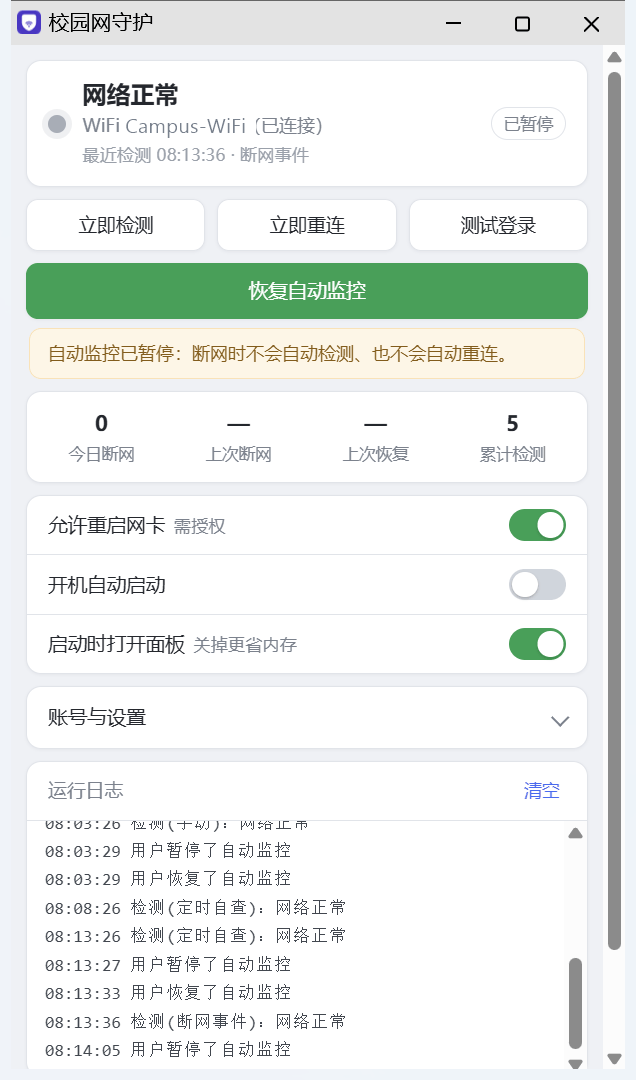
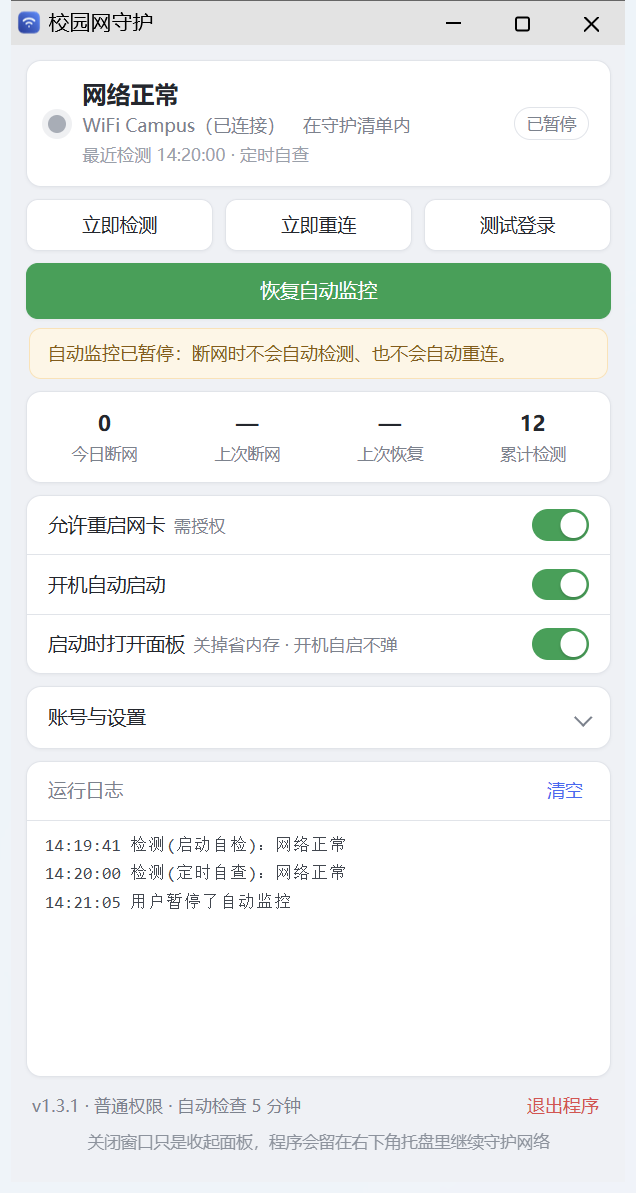
docs: 示例 SSID 改为通用占位，重拍 v1.3.1 界面预览图
README/UI 提示/测试里的真实校园 SSID 统一换成 Campus-WiFi、Campus-5G、Campus-* 等通用示例；ui-preview.png 与 ui-paused.png 用 v1.3.1 面板重拍（页脚版本、托盘提示、设置区说明齐全）。

diff --git a/ui.html b/ui.html
@@ -146,7 +146,7 @@
     <div class="fld"><label>密码</label><input id="fPass" type="password" placeholder="留空表示不修改" autocomplete="off"></div>
     <div class="fld"><label>守护的网络</label><div class="chips" id="ssidBox"></div></div>
     <div class="ssidrow">
-      <input id="fSsid" placeholder="如 QHNU-CMCC；也支持 QHNU-* 通配" autocomplete="off">
+      <input id="fSsid" placeholder="如 Campus-WiFi；也支持 Campus-* 通配" autocomplete="off">
       <button class="btn" id="bSsidAdd">添加</button>
     </div>
     <div class="ssidrow two">
@@ -266,7 +266,7 @@ function renderChips(){
       if (!v) return;
       if (v.length > 64) v = v.slice(0, 64);
       var k = ssidKey(v), star = v.indexOf("*");
-      if (star === 0){ toast("至少写几个字符，例如 QHNU-*"); return; }
+      if (star === 0){ toast("至少写几个字符，例如 Campus-*"); return; }
       if (star >= 0 && star !== v.length - 1){ toast("通配符只能写在末尾"); return; }
       for (var j = 0; j < ssidList.length; j++){
         if (j !== i && ssidKey(ssidList[j]) === k){ toast("「" + v + "」已经在清单里了"); return; }
@@ -290,8 +290,8 @@ function addSsid(name){
   if (!name) return;
   if (name.length > 64) name = name.slice(0, 64);
   var star = name.indexOf("*");
-  if (star === 0){ toast("至少写几个字符，例如 QHNU-*"); return; }
-  if (star >= 0 && star !== name.length - 1){ toast("通配符只能写在末尾，例如 QHNU-*"); return; }
+  if (star === 0){ toast("至少写几个字符，例如 Campus-*"); return; }
+  if (star >= 0 && star !== name.length - 1){ toast("通配符只能写在末尾，例如 Campus-*"); return; }
   var k = ssidKey(name);
   for (var i = 0; i < ssidList.length; i++){
     if (ssidKey(ssidList[i]) === k){ toast("「" + name + "」已经在清单里了"); return; }

diff --git a/tests/test_ssid_rules.py b/tests/test_ssid_rules.py
@@ -10,7 +10,7 @@ from ssid_rules import (MAX_SSID_ITEMS, is_wildcard, normalize_ssid_list,
 
 class SsidKeyTest(unittest.TestCase):
     def test_trims_and_casefolds(self):
-        self.assertEqual(ssid_key("  QHNU-CMCC "), "qhNu-cmcc".casefold())
+        self.assertEqual(ssid_key("  Campus-WiFi "), "caMpus-WiFi".casefold())
 
     def test_non_string_is_empty(self):
         self.assertEqual(ssid_key(None), "")
@@ -22,8 +22,8 @@ class NormalizeTest(unittest.TestCase):
         self.assertEqual(normalize_ssid_list("  A  "), ["A"])
 
     def test_dedup_casefold_keeps_order(self):
-        self.assertEqual(normalize_ssid_list(["QHNU-CMCC", " qhnu-cmcc ", "Campus-WiFi"]),
-                         ["QHNU-CMCC", "Campus-WiFi"])
+        self.assertEqual(normalize_ssid_list(["Campus-WiFi", " campus-wifi ", "Campus-5G"]),
+                         ["Campus-WiFi", "Campus-5G"])
 
     def test_drops_empty_and_non_strings(self):
         self.assertEqual(normalize_ssid_list(["", "  ", None, 3.5, [], "ok"]), ["3.5", "ok"])
@@ -40,21 +40,21 @@ class NormalizeTest(unittest.TestCase):
 
 class MatchTest(unittest.TestCase):
     def test_exact_case_insensitive(self):
-        self.assertTrue(ssid_matches("QHNU-CMCC", ["qhnu-cmcc"]))
-        self.assertFalse(ssid_matches("QHNU", ["QHNU-CMCC"]))
-        self.assertFalse(ssid_matches("QHNU-CMCC", ["QHNU"]))
-        self.assertFalse(ssid_matches("", ["QHNU-*"]))
-        self.assertFalse(ssid_matches("QHNU-CMCC", []))
+        self.assertTrue(ssid_matches("Campus-WiFi", ["campus-wifi"]))
+        self.assertFalse(ssid_matches("Campus", ["Campus-WiFi"]))
+        self.assertFalse(ssid_matches("Campus-WiFi", ["Campus"]))
+        self.assertFalse(ssid_matches("", ["Campus-*"]))
+        self.assertFalse(ssid_matches("Campus-WiFi", []))
 
     def test_prefix_wildcard(self):
-        self.assertTrue(ssid_matches("QHNU-CMCC", ["QHNU-*"]))
-        self.assertTrue(ssid_matches("QHNU-*", ["QHNU-*"]))
-        self.assertFalse(ssid_matches("CMCC-QHNU", ["QHNU-*"]))
+        self.assertTrue(ssid_matches("Campus-WiFi", ["Campus-*"]))
+        self.assertTrue(ssid_matches("Campus-*", ["Campus-*"]))
+        self.assertFalse(ssid_matches("WiFi-Campus", ["Campus-*"]))
 
     def test_fullwidth_star(self):
-        self.assertTrue(ssid_matches("QHNU-CMCC", ["QHNU-\uff0a"]))
-        self.assertTrue(is_wildcard("QHNU-\uff0a"))
-        self.assertFalse(is_wildcard("QHNU-CMCC"))
+        self.assertTrue(ssid_matches("Campus-WiFi", ["Campus-\uff0a"]))
+        self.assertTrue(is_wildcard("Campus-\uff0a"))
+        self.assertFalse(is_wildcard("Campus-WiFi"))
 
     def test_star_alone_matches_any_non_empty(self):
         self.assertTrue(ssid_matches("anything", ["*"]))
@@ -63,12 +63,12 @@ class MatchTest(unittest.TestCase):
 
 class LegacyTest(unittest.TestCase):
     def test_sync_picks_first_non_wildcard(self):
-        cfg = {"ssid_list": ["QHNU-*", "Campus-WiFi"], "ssid": ""}
+        cfg = {"ssid_list": ["Campus-*", "Campus-WiFi"], "ssid": ""}
         sync_legacy_ssid(cfg)
         self.assertEqual(cfg["ssid"], "Campus-WiFi")
 
     def test_sync_wildcard_only(self):
-        cfg = {"ssid_list": ["QHNU-*"], "ssid": "old"}
+        cfg = {"ssid_list": ["Campus-*"], "ssid": "old"}
         sync_legacy_ssid(cfg)
         self.assertEqual(cfg["ssid"], "")
 

diff --git a/tests/test_config.py b/tests/test_config.py
@@ -20,16 +20,16 @@ def fix(cfg):
 @unittest.skipIf(monitor is None, "monitor 依赖 Windows 才能导入")
 class FixConfigTest(unittest.TestCase):
     def test_legacy_ssid_migrates_only_when_list_empty(self):
-        fixed, notes = fix({"ssid": " QHNU-CMCC ", "ssid_list": []})
-        self.assertEqual(fixed["ssid_list"], ["QHNU-CMCC"])
+        fixed, notes = fix({"ssid": " Campus-WiFi ", "ssid_list": []})
+        self.assertEqual(fixed["ssid_list"], ["Campus-WiFi"])
         self.assertTrue(notes)
 
-        fixed, _ = fix({"ssid": "QHNU-CMCC", "ssid_list": ["Campus-WiFi"]})
+        fixed, _ = fix({"ssid": "Campus-WiFi", "ssid_list": ["Campus-WiFi"]})
         self.assertEqual(fixed["ssid_list"], ["Campus-WiFi"])
 
     def test_ssid_list_is_cleaned(self):
-        fixed, _ = fix({"ssid_list": ["", " QHNU-CMCC ", "qhnu-cmcc", 7]})
-        self.assertEqual(fixed["ssid_list"], ["QHNU-CMCC", "7"])
+        fixed, _ = fix({"ssid_list": ["", " Campus-WiFi ", "campus-wifi", 7]})
+        self.assertEqual(fixed["ssid_list"], ["Campus-WiFi", "7"])
 
     def test_period_and_port_are_clamped(self):
         self.assertEqual(fix({"periodic_seconds": 1})[0]["periodic_seconds"], 30)
@@ -57,11 +57,11 @@ class PersistenceTest(unittest.TestCase):
         d = tempfile.mkdtemp(prefix="sw_cfg_")
         mon = monitor.Monitor(d, console=False)
         try:
-            mon.cfg["ssid_list"] = ["QHNU-CMCC", "QHNU-*"]
+            mon.cfg["ssid_list"] = ["Campus-WiFi", "Campus-*"]
             mon.cfg["periodic_seconds"] = 120
             mon.save_config()
             loaded = monitor.Monitor(d, console=False).load_config()
-            self.assertEqual(loaded["ssid_list"], ["QHNU-CMCC", "QHNU-*"])
+            self.assertEqual(loaded["ssid_list"], ["Campus-WiFi", "Campus-*"])
             self.assertEqual(loaded["periodic_seconds"], 120)
             with open(mon.cfg_path, encoding="utf-8") as fh:
                 self.assertNotIn("password", json.load(fh))
